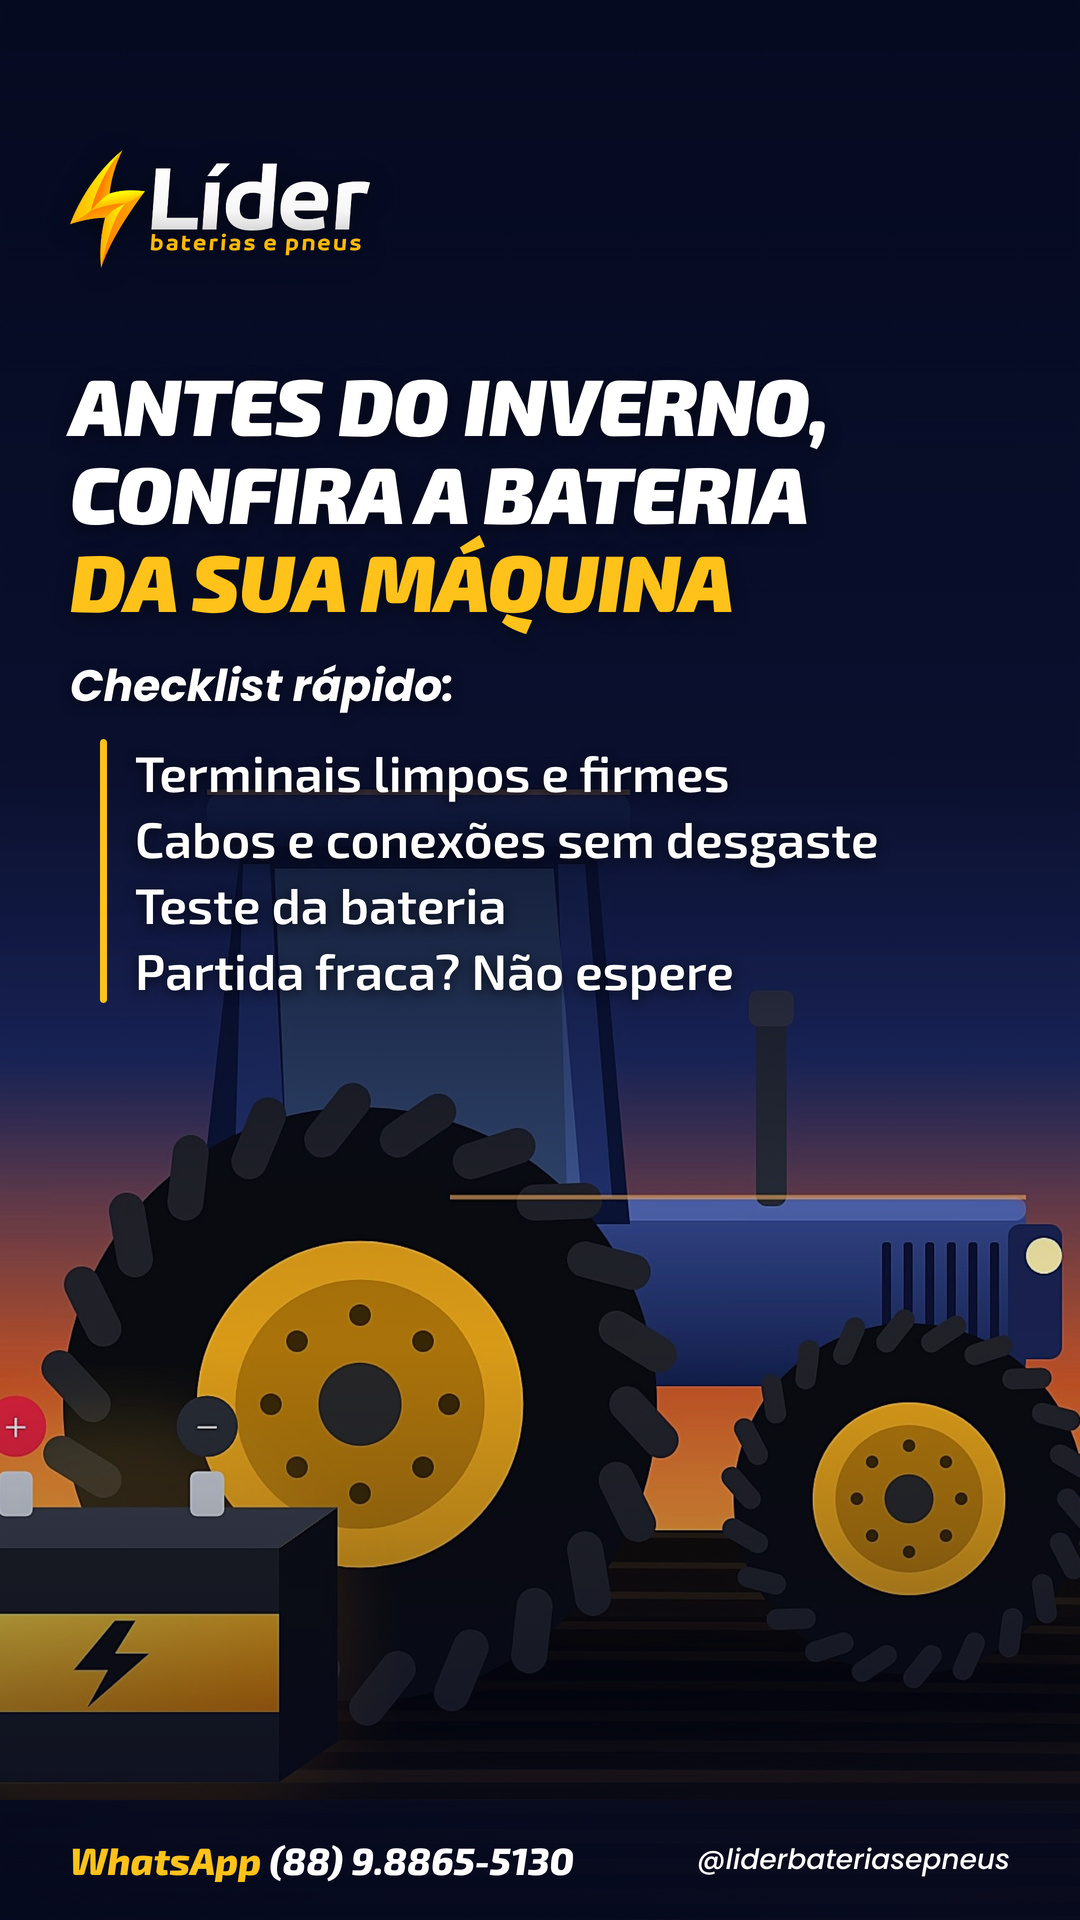
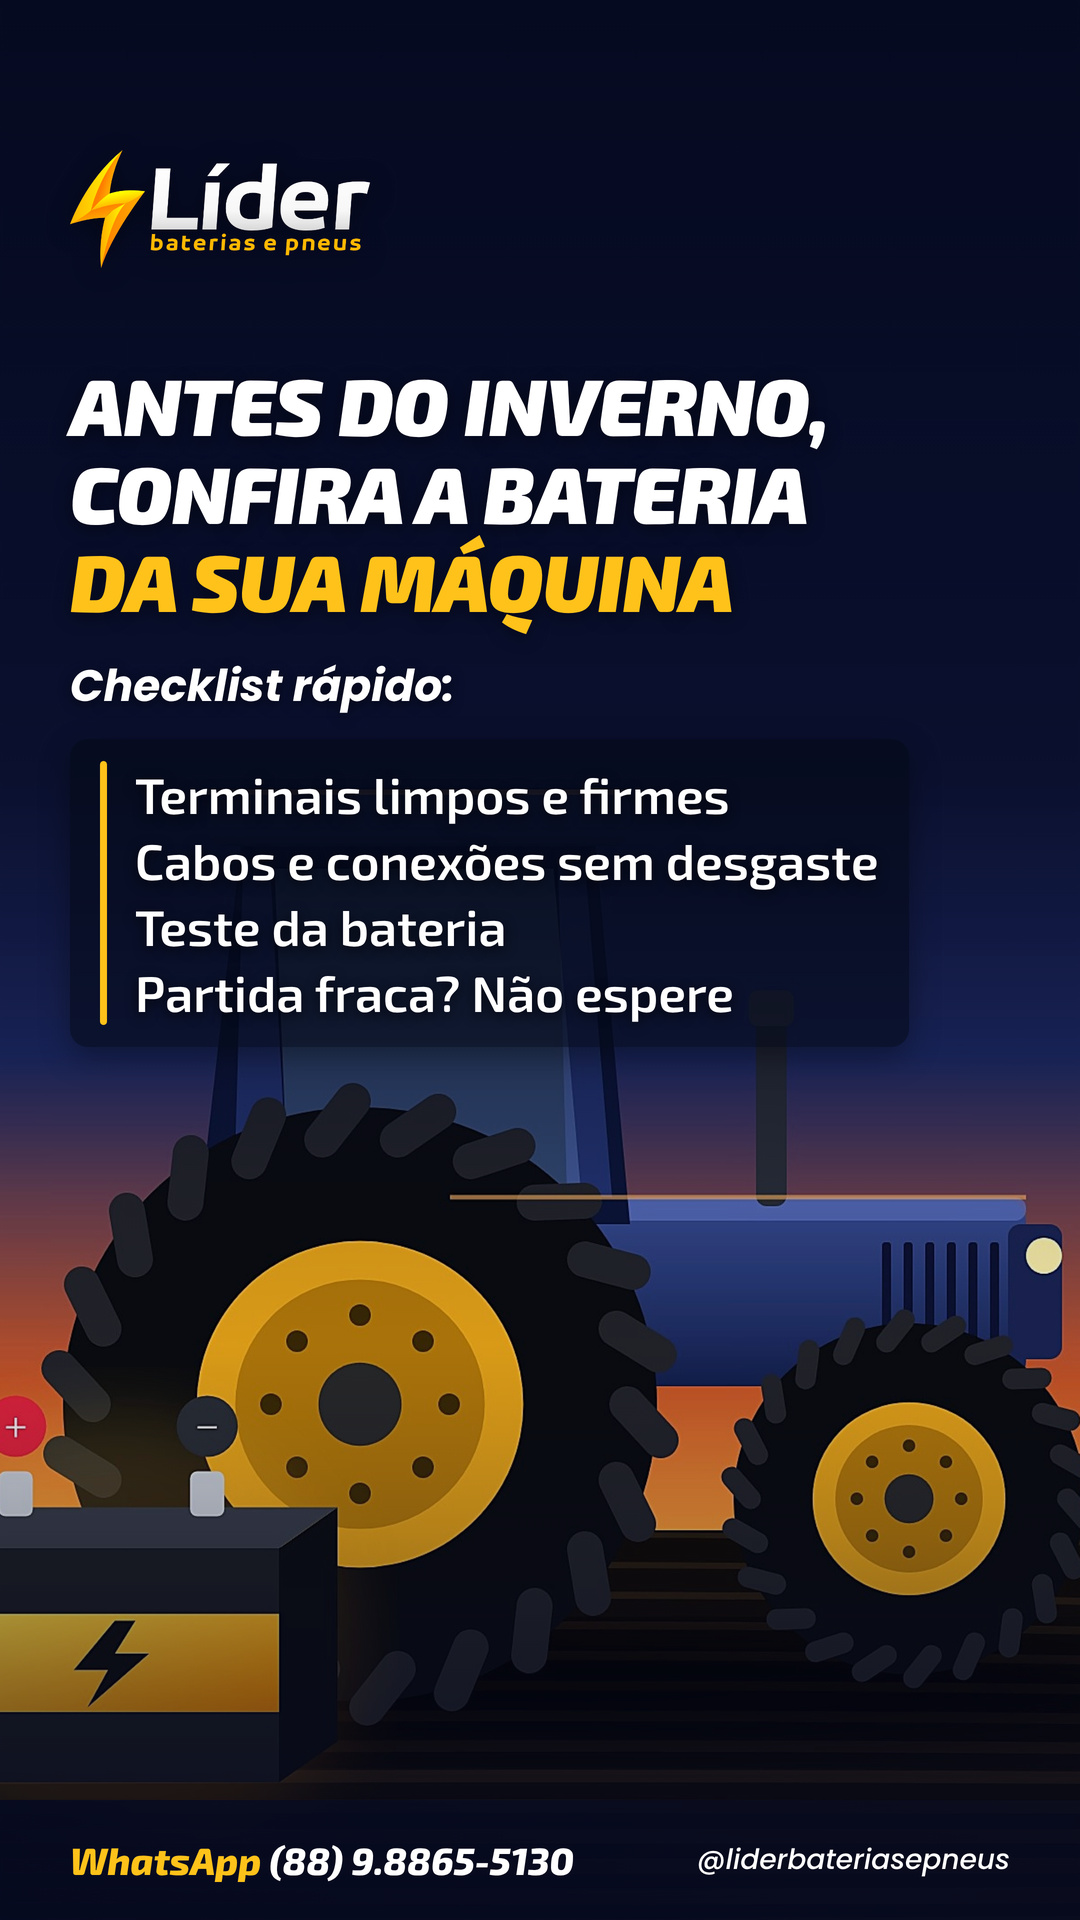
dica pro: painel na lista do topo; exemplo CCA
Claude-Session: https://claude.ai/code/session_01Gai1bF15XgagKZGeDZxkXu

Changed region(s): [[0.0611, 0.375, 0.8556, 0.5625]]

diff --git a/ferramentas/gerar_dica_pro.py b/ferramentas/gerar_dica_pro.py
@@ -66,7 +66,7 @@ def montar(cfg, W, H, foto):
     chev = (f'<svg width="{40 if story else 34}" height="{24 if story else 20}" viewBox="0 0 24 14" style="margin-top:18px" fill="none" stroke="#fff" stroke-width="3" '
             f'stroke-linecap="round" stroke-linejoin="round"><path d="M3 3l9 8 9-8"/></svg>')
     if cfg.get('lista_posicao') == 'topo':   # lista logo abaixo do subtítulo (quando a parte de baixo da foto é a cena principal)
-        lista_topo = f'<div style="margin-top:{26 if story else 20}px;margin-left:30px">{bloco}</div>'
+        lista_topo = f'<div style="margin-top:{26 if story else 20}px;display:inline-block;background:rgba(5,9,25,.62);border-radius:18px;padding:{"22px 30px" if story else "18px 26px"};box-shadow:0 10px 30px rgba(0,0,0,.35)">{bloco}</div>'
         lista_baixo = ''
     else:
         lista_topo = chev

diff --git a/CLAUDE.md b/CLAUDE.md
@@ -65,7 +65,7 @@ Ele é **público**, porque o Metricool busca as imagens por link direto:
     - `"tipo":"marcas"`: vitrine "A MAIOR VARIEDADE" com as marcas em selos de texto (grupos PNEUS / BATERIAS / PNEUS DE MOTO / BATERIAS DE MOTO). Use SÓ marcas confirmadas neste arquivo (NÃO usar Continental, Bridgestone, Firestone, Yokohama, Hankook etc. que aparecem em referências feitas por IA). Use 1x por semana no feed e 1x por semana no Story.
     - `"tipo":"split"`: diagonal de 2 cores com foto no topo e título grande ("SEM BATERIA? A GENTE INSTALA!"). Campos: foto, posicao_foto, linhas [3 linhas], destaque, cores (vermelho_azul, azul_laranja, roxo_amarelo, preto_amarelo, royal_vermelho). Ótimo com as fotos de instalação.
   - `referencias/`: artes que a loja JÁ POSTOU (só inspiração de estilo; NÃO republicar). Atenção: várias têm promessas NÃO confirmadas ("preços imbatíveis", "melhor preço da cidade", "20% de desconto", "18 meses de garantia", "condições facilitadas", "compre no cartão", "instalação em até 1 hora", "nota fiscal e certificado de garantia") — não use essas frases até o dono confirmar. Boas ideias de tema que PODEM ser usadas: "Vai viajar no fim de semana? Já conferiu a bateria?", "Cabo de chupeta / recarga improvisada pode danificar o sistema elétrico", "Dirija com confiança", "Sem bateria? Temos a solução!".
-  - `ferramentas/gerar_dica_pro.py` (**DICA PRO / consultivo**, pedido do dono em 09/11/2026 com uma referência de concorrente): foto real em tela cheia, degradê azul, título em itálico com a última linha amarela, subtítulo, seta e lista com barra amarela (ex.: "NÃO SABE QUAL BATERIA É A CERTA PRO SEU CARRO? / Antes de trocar, a gente confere com você: teste da bateria atual, amperagem certa, modelo do carro, encaixe e polos"). Campos: foto, posicao_foto, titulo [2–4 linhas], amarelas (opcional), subtitulo, lista [3–5 itens curtos], selo (opcional: "ARRASTA PRO LADO ➜" ou "1/5"), cor (azul|noite|grafite|royal). Use para DICAS no feed e nos Stories das 12:30, capas e slides de carrossel e posts de serviço/confiança — alterne com o cartão `"tipo":"dica"` do gerar_conteudo.py (não usar o mesmo formato de dica 2 dias seguidos). Exemplo: `exemplos/dica-pro/exemplo.json`. Rodar com `NODE_PATH=$(npm root -g)` se o playwright não for achado. Nunca copie a frase de concorrente; escreva texto próprio e verdadeiro.
+  - `ferramentas/gerar_dica_pro.py` (**DICA PRO / consultivo**, pedido do dono em 09/11/2026 com uma referência de concorrente): foto real em tela cheia, degradê azul, título em itálico com a última linha amarela, subtítulo, seta e lista com barra amarela (ex.: "NÃO SABE QUAL BATERIA É A CERTA PRO SEU CARRO? / Antes de trocar, a gente confere com você: teste da bateria atual, amperagem certa, modelo do carro, encaixe e polos"). Campos: foto, posicao_foto, titulo [2–4 linhas], amarelas (opcional), subtitulo, lista [3–5 itens curtos], selo (opcional: "ARRASTA PRO LADO ➜" ou "1/5"), cor (azul|noite|grafite|royal). Use para DICAS no feed e nos Stories das 12:30, capas e slides de carrossel e posts de serviço/confiança — alterne com o cartão `"tipo":"dica"` do gerar_conteudo.py (não usar o mesmo formato de dica 2 dias seguidos). Exemplos: `exemplos/dica-pro/exemplo.json` (bateria certa — agendado 12/11), `exemplos/dica-cca/cca.json` ("Não é só o Ah que conta": Ah = carga que guarda, CCA = força na partida, tamanho e polos — aguardando o dono escolher o dia), `exemplos/trator/trator.json` (só após confirmação de bateria de trator). Opção `"lista_posicao":"topo"` põe a lista num painel escuro logo abaixo do título (use quando o produto da foto estiver embaixo). Rodar com `NODE_PATH=$(npm root -g)` se o playwright não for achado. Nunca copie a frase de concorrente; escreva texto próprio e verdadeiro.
   - `ferramentas/gerar_arte.py` (modelo clássico, mais limpo). Use em cerca de 1 a cada 4 artes, para variar.
   - CORES (pedido do dono, 05/11/2026): NUNCA repita o mesmo tema de cor em artes seguidas. Revezar os 8 temas da marca (azul, preto, grafite, laranja, dourado, noite, royal, roxo — royal e roxo são os mais chamativos, no estilo do expositor Moura; use pelo menos 1 deles por dia) ao longo do dia; os 3 Stories das 07:00 devem ter 3 temas diferentes, e o post do feed um tema diferente dos Stories vizinhos. Registre no histórico os temas usados para variar no dia seguinte. Combine o tema com a foto (ex.: laranja/dourado em fotos com caixas amarelas Moura/Pioneiro; azul/noite em fotos de pneus; grafite em fotos da loja). Crie textos novos todo dia: perguntas que a pessoa faria ("SUA MOTO NÃO PEGA?", "PNEU CARECA?", "VAI VIAJAR?"), sem repetir a mesma combinação na mesma semana.
 - `posts/AAAA-MM-DD/`: artes e `legenda.txt` de cada dia
